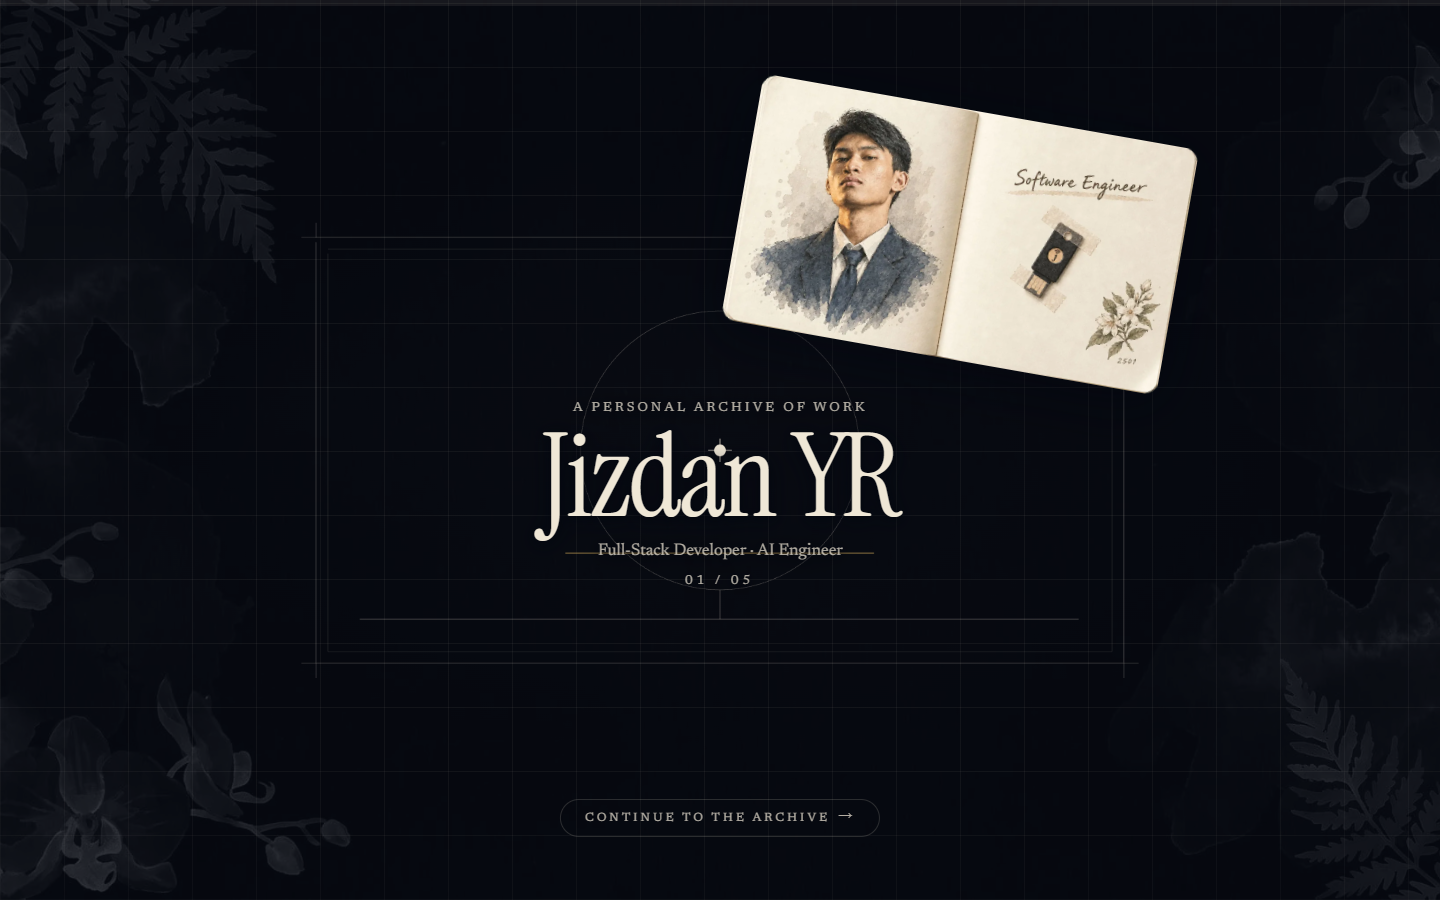
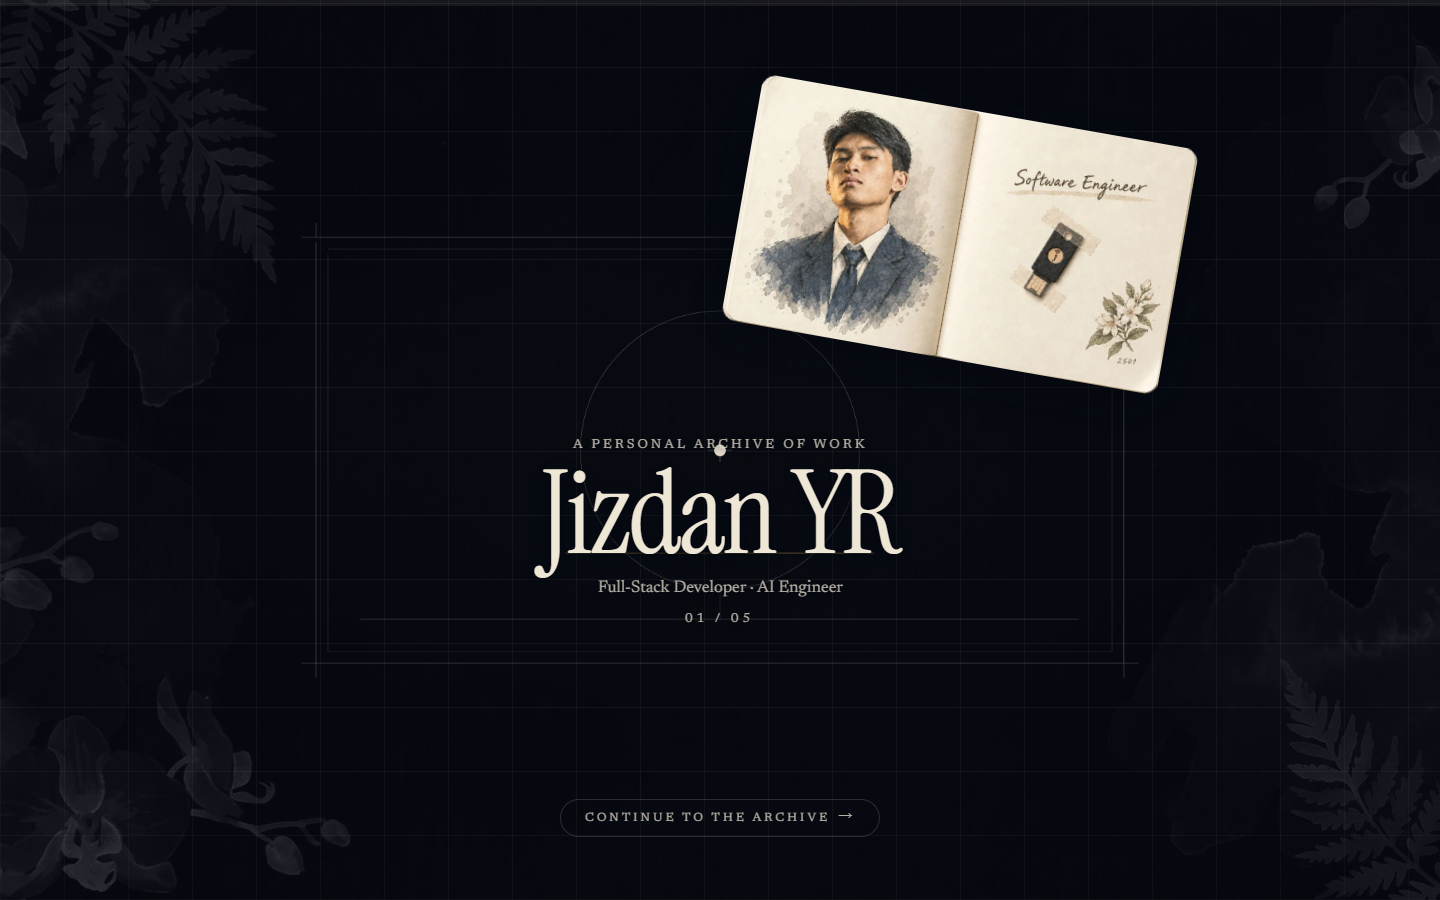
fix(intro): raise only the held sketchbook; lock the identity seat
The stamp seat had been pulled up (--plate-w * .14) alongside the
portrait's raise, which moved the identity text off the position it
already had right. Revert the seat to its original baseline
(--plate-w * .1797) so ONLY the held sketchbook travels up into the
red-marked upper field; every other element keeps the position it had.

--raise stays the single token the plate's inline --y and the exit's
settle-to-centre both read, so the book is still raised, still clears
the text, and still lands centred on the next page's .sb-book.

Harness 43/43; build clean.

Changed region(s): [[0.375, 0.4356, 0.625, 0.6844]]

diff --git a/public/landing-pages/chin-portfolio.html b/public/landing-pages/chin-portfolio.html
@@ -2104,19 +2104,17 @@
       /* ---- the stamp's seat -------------------------------------------------
          Declared HERE, after the identity block above, on purpose: these two
          override the v1 rules at equal specificity, so they must be later in
-         source. The stamp's BOTTOM sits 6px under the drawn baseline, so the
-         name grows upward from the rule and can never collide with the fan or
-         with the Continue button. v1 stage-centred it and the fan fanned over
-         it.
+         source. The stamp's BOTTOM sits 6px under the drawn baseline (viewBox
+         y=590, which is --plate-w * .1797 below the stage's centre line), so
+         the name grows upward from the rule and can never collide with the fan
+         or with the Continue button. v1 stage-centred it and the fan fanned
+         over it.
 
-         The seat is pulled UP from the raw baseline (--plate-w * .1797) to
-         --plate-w * .14: once the portrait is held high in the red-marked
-         upper field, the identity reads best as one centred block under it
-         rather than pinned low on a rule the eye has stopped seeing. .14 is
-         the largest pull that still clears the raised portrait by ~19px at
-         1440x900, so the book can never back the text. */
+         SEAT LOCKED: this is the identity's own position and does not move
+         with the held portrait. The portrait is raised by --raise alone (see
+         .intro-stage), so the ONLY thing that travels up is the sketchbook. */
       .intro-stamp {
-        top: calc(50% + var(--plate-w) * .14 + 6px);
+        top: calc(50% + var(--plate-w) * .1797 + 6px);
         transform: translateY(-100%);
       }
 
